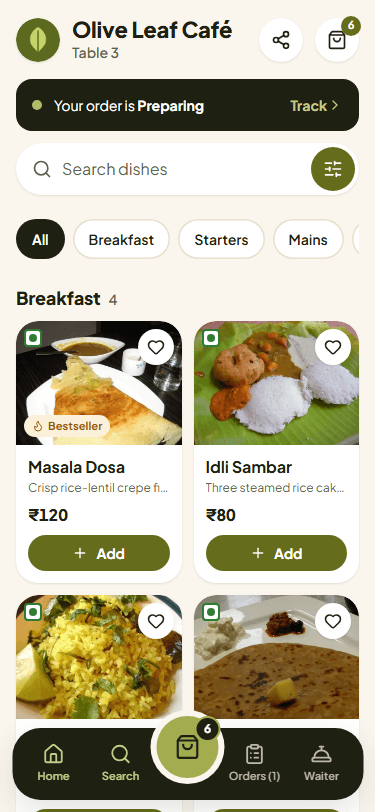
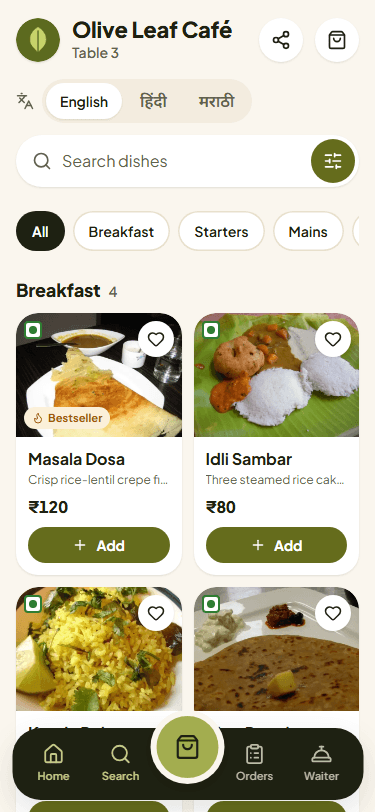
feat(client): English / Hindi / Marathi switch for dish names
- The customer menu shows an English / हिंदी / मराठी switch when dishes
  have translations; the choice is remembered, untranslated text falls
  back to English, search matches both, lang attributes are set
- Dish editor: optional Hindi and Marathi name and description
- Noto Sans Devanagari (fontsource, only downloaded for Devanagari text)
- e2e: exact label for the dish Name field now that translated name
  fields exist

diff --git a/client/src/features/owner/ItemEditor.jsx b/client/src/features/owner/ItemEditor.jsx
@@ -1,5 +1,5 @@
 import { useState } from 'react';
-import { Plus, X } from 'lucide-react';
+import { Plus, X, Languages } from 'lucide-react';
 import { Button, Chip, Modal, Switch, TextField, IconButton, useToast } from '../../components/ui';
 import { api, errorMessage } from '../../lib/api';
 import { ImagePicker } from '../../components/ImagePicker';
@@ -14,8 +14,32 @@ const NEW_CATEGORY = '__new__';
 
 const emptyItem = (category) => ({
   name: '', description: '', category: category || '', price: '', image: '', available: true, isVeg: true,
-  tags: [], spiceLevel: 0, calories: '', variants: [], addOns: []
+  tags: [], spiceLevel: 0, calories: '', variants: [], addOns: [], translations: emptyTranslations()
 });
+const TRANSLATION_LANGUAGES = [{ code: 'hi', label: 'Hindi', native: 'हिंदी' }, { code: 'mr', label: 'Marathi', native: 'मराठी' }];
+function emptyTranslations(existing = {}) {
+  return Object.fromEntries(TRANSLATION_LANGUAGES.map(({ code }) => [code, { name: existing[code]?.name || '', description: existing[code]?.description || '' }]));
+}
+
+// Optional Hindi / Marathi name and description; guests switch the menu language on their phone.
+function TranslationsEditor({ value, onChange, errors, englishName }) {
+  const [lang, setLang] = useState('hi');
+  const filled = TRANSLATION_LANGUAGES.filter(({ code }) => value[code].name || value[code].description).length;
+  const update = (field, text) => onChange({ ...value, [lang]: { ...value[lang], [field]: text } });
+  const current = TRANSLATION_LANGUAGES.find((l) => l.code === lang);
+  return (
+    <details className="translations-editor" open={filled > 0}>
+      <summary><Languages size={16} aria-hidden="true" /> Hindi and Marathi <span className="muted">{filled ? `(${filled} of 2 added)` : '(optional)'}</span></summary>
+      <div className="stack" style={{ marginTop: 'var(--space-3)' }}>
+        <div className="segmented" role="group" aria-label="Translation language">
+          {TRANSLATION_LANGUAGES.map((l) => <button key={l.code} type="button" aria-pressed={lang === l.code} onClick={() => setLang(l.code)}>{l.label} <span lang={l.code}>{l.native}</span></button>)}
+        </div>
+        <TextField label={`Name in ${current.label}`} lang={lang} value={value[lang].name} onChange={(e) => update('name', e.target.value)} error={errors[`translations.${lang}.name`]} maxLength={100} placeholder={englishName} />
+        <TextField label={`Description in ${current.label}`} lang={lang} multiline rows={2} value={value[lang].description} onChange={(e) => update('description', e.target.value)} error={errors[`translations.${lang}.description`]} maxLength={500} hint="Leave blank to show the English text" />
+      </div>
+    </details>
+  );
+}
 
 function OptionsEditor({ title, hint, rows, onChange, addLabel, placeholder }) {
   const update = (i, field, value) => onChange(rows.map((row, j) => (j === i ? { ...row, [field]: value } : row)));
@@ -44,7 +68,8 @@ export function ItemEditor({ item, categories, defaultCategory, onClose, onSaved
   const editing = Boolean(item?._id);
   const [form, setForm] = useState(() => (item ? {
     ...emptyItem(), ...item, calories: item.calories ?? '', price: item.price ?? '',
-    variants: (item.variants || []).map((v) => ({ ...v })), addOns: (item.addOns || []).map((a) => ({ ...a }))
+    variants: (item.variants || []).map((v) => ({ ...v })), addOns: (item.addOns || []).map((a) => ({ ...a })),
+    translations: emptyTranslations(item.translations)
   } : emptyItem(defaultCategory)));
   const [newCategory, setNewCategory] = useState('');
   const [errors, setErrors] = useState({});
@@ -69,7 +94,8 @@ export function ItemEditor({ item, categories, defaultCategory, onClose, onSaved
       spiceLevel: form.spiceLevel,
       calories: form.calories === '' ? null : Number(form.calories),
       variants,
-      addOns: cleanOptions(form.addOns)
+      addOns: cleanOptions(form.addOns),
+      translations: Object.fromEntries(Object.entries(form.translations).map(([code, t]) => [code, { name: t.name.trim(), description: t.description.trim() }]))
     };
     const next = {};
     if (!body.name) next.name = 'Give the dish a name';
@@ -103,6 +129,7 @@ export function ItemEditor({ item, categories, defaultCategory, onClose, onSaved
         <div className="stack">
           <TextField label="Name" value={form.name} onChange={(e) => set('name', e.target.value)} error={errors.name} maxLength={100} autoFocus />
           <TextField label="Description" multiline rows={3} value={form.description} onChange={(e) => set('description', e.target.value)} error={errors.description} maxLength={500} hint="One or two lines: ingredients, how it is made" />
+          <TranslationsEditor value={form.translations} onChange={(v) => set('translations', v)} errors={errors} englishName={form.name} />
           <div className="form-grid">
             <label className="field">
               <span className="field-label">Category</span>

diff --git a/e2e/language.spec.js b/e2e/language.spec.js
@@ -1,0 +1,60 @@
+const { test, expect } = require('@playwright/test');
+const { API, demo, ownerLogin } = require('./helpers');
+
+test('guests switch dish names to Hindi or Marathi; search still finds English names', async ({ page, request }) => {
+  const { restaurantId } = await demo(request);
+  await page.goto(`/menu/${restaurantId}/browse`);
+  const languages = page.getByRole('group', { name: 'Menu language' });
+  await expect(languages.getByRole('button', { name: 'English' })).toHaveAttribute('aria-pressed', 'true');
+  await expect(page.getByRole('button', { name: 'Masala Dosa', exact: true })).toBeVisible();
+
+  await languages.getByRole('button', { name: 'हिंदी' }).click();
+  const dosa = page.getByRole('button', { name: 'मसाला डोसा', exact: true });
+  await expect(dosa).toBeVisible();
+  await expect(dosa).toHaveAttribute('lang', 'hi');
+  await expect(page.getByText('मसालेदार आलू से भरा', { exact: false })).toBeVisible();
+
+  // English search terms still match while reading Hindi.
+  await page.getByLabel('Search dishes').fill('paneer tikka');
+  await expect(page.getByRole('button', { name: 'पनीर टिक्का', exact: true })).toBeVisible();
+  await page.getByLabel('Search dishes').fill('');
+
+  // The choice is remembered and the dish page follows it.
+  await page.reload();
+  await expect(page.getByRole('group', { name: 'Menu language' }).getByRole('button', { name: 'हिंदी' })).toHaveAttribute('aria-pressed', 'true');
+  await page.getByRole('button', { name: 'मसाला डोसा', exact: true }).click();
+  await expect(page.locator('.detail-name')).toHaveText('मसाला डोसा');
+  await page.goBack();
+
+  await page.getByRole('group', { name: 'Menu language' }).getByRole('button', { name: 'मराठी' }).click();
+  await expect(page.getByRole('button', { name: 'मसाला चहा', exact: true })).toBeVisible();
+  await page.getByRole('group', { name: 'Menu language' }).getByRole('button', { name: 'English' }).click();
+  await expect(page.getByRole('button', { name: 'Masala Chai', exact: true })).toBeVisible();
+});
+
+test('the owner adds a Marathi name in the dish editor', async ({ page, request }) => {
+  const { restaurantId } = await demo(request);
+  const owner = await ownerLogin(request);
+  await page.addInitScript(([token, userId]) => {
+    localStorage.setItem('token', token);
+    localStorage.setItem('userId', userId);
+    localStorage.setItem('qr.alerts', JSON.stringify({ sound: false, voice: false, browser: false }));
+  }, [owner.token, owner.userId]);
+  const name = `Lang Test ${Date.now()}`;
+  await page.goto('/dashboard/menu');
+  await page.getByRole('button', { name: 'Add dish' }).click();
+  const dialog = page.getByRole('dialog', { name: 'Add a dish' });
+  await dialog.getByLabel('Name', { exact: true }).fill(name);
+  await dialog.getByLabel('Price (₹)').fill('70');
+  await dialog.getByText('Hindi and Marathi').click();
+  await dialog.getByRole('button', { name: /^Marathi/ }).click();
+  await dialog.getByLabel('Name in Marathi').fill('साबुदाणा खिचडी');
+  await expect(dialog.getByLabel('Name in Marathi')).toHaveAttribute('lang', 'mr');
+  await dialog.getByRole('button', { name: 'Add dish' }).click();
+  await expect(dialog).toHaveCount(0);
+
+  const menu = await (await request.get(`${API}/api/menu/${restaurantId}`)).json();
+  const created = menu.find((i) => i.name === name);
+  expect(created.translations.mr).toEqual({ name: 'साबुदाणा खिचडी' });
+  expect(created.translations.hi?.name).toBeUndefined();
+});

diff --git a/client/src/features/customer/CustomerContext.jsx b/client/src/features/customer/CustomerContext.jsx
@@ -2,6 +2,7 @@ import { createContext, useCallback, useContext, useEffect, useMemo, useRef, use
 import { api } from '../../lib/api';
 import { connectSocket } from '../../lib/socket';
 import { local, session } from '../../lib/storage';
+import { availableLanguages, localizeItem } from '../../lib/menuLanguage';
 import { unitPricePaise, computeBill } from '../../lib/pricing';
 import { isActiveOrder } from '../../lib/orderStatus';
 
@@ -15,14 +16,16 @@ const keys = (rid) => ({
   orders: `qr.orders.${rid}`,
   favourites: `qr.fav.${rid}`,
   table: `qr.table.${rid}`,
-  customer: 'qr.customer'
+  customer: 'qr.customer',
+  language: 'qr.language' // the guest's menu language, kept across restaurants
 });
 
 // Everything a customer screen needs: restaurant, live menu, cart, tracked orders, favourites, table.
 export function CustomerProvider({ restaurantId, children }) {
   const k = keys(restaurantId);
   const [restaurant, setRestaurant] = useState(null);
-  const [menu, setMenu] = useState([]);
+  const [rawMenu, setMenu] = useState([]);
+  const [chosenLanguage, setChosenLanguage] = useState(() => local.get(k.language, 'en'));
   const [status, setStatus] = useState('loading'); // loading | ready | error
   const [error, setError] = useState(null);
   const [lines, setLines] = useState(() => local.get(k.cart, []));
@@ -107,6 +110,15 @@ export function CustomerProvider({ restaurantId, children }) {
     setTableState(n);
     session.set(k.table, n);
   }, [k.table]);
+
+  // ---------- Menu language ----------
+  const languages = useMemo(() => availableLanguages(rawMenu), [rawMenu]);
+  const language = languages.some((l) => l.code === chosenLanguage) ? chosenLanguage : 'en';
+  const setLanguage = useCallback((code) => {
+    setChosenLanguage(code);
+    local.set(k.language, code);
+  }, [k.language]);
+  const menu = useMemo(() => rawMenu.map((item) => localizeItem(item, language)), [rawMenu, language]);
 
   // ---------- Cart ----------
   const menuById = useMemo(() => new Map(menu.map((i) => [i._id, i])), [menu]);
@@ -224,6 +236,9 @@ export function CustomerProvider({ restaurantId, children }) {
     restaurant,
     menu,
     menuById,
+    language,
+    languages,
+    setLanguage,
     status,
     error,
     reload: load,

diff --git a/client/src/lib/menuLanguage.test.js b/client/src/lib/menuLanguage.test.js
@@ -1,0 +1,26 @@
+import { describe, expect, test } from 'vitest';
+import { availableLanguages, localizeItem, searchText } from './menuLanguage';
+
+const dosa = { _id: '1', name: 'Masala Dosa', description: 'Crisp crepe', category: 'Breakfast', translations: { hi: { name: 'मसाला डोसा' }, mr: { name: 'मसाला डोसा', description: 'कुरकुरीत डोसा' } } };
+const chai = { _id: '2', name: 'Masala Chai', description: 'Strong tea' };
+
+describe('localizeItem', () => {
+  test('English leaves the item as it is', () => {
+    expect(localizeItem(dosa, 'en')).toMatchObject({ name: 'Masala Dosa', nameLang: 'en' });
+  });
+  test('uses the translation and falls back per field', () => {
+    expect(localizeItem(dosa, 'hi')).toMatchObject({ name: 'मसाला डोसा', nameLang: 'hi', description: 'Crisp crepe', descriptionLang: 'en', nameEn: 'Masala Dosa' });
+    expect(localizeItem(dosa, 'mr')).toMatchObject({ description: 'कुरकुरीत डोसा', descriptionLang: 'mr' });
+    expect(localizeItem(chai, 'hi')).toMatchObject({ name: 'Masala Chai', nameLang: 'en' });
+  });
+});
+
+test('only offers languages the menu has', () => {
+  expect(availableLanguages([chai]).map((l) => l.code)).toEqual(['en']);
+  expect(availableLanguages([chai, dosa]).map((l) => l.code)).toEqual(['en', 'hi', 'mr']);
+});
+
+test('search matches the English name while reading Hindi', () => {
+  expect(searchText(localizeItem(dosa, 'hi'))).toContain('masala dosa');
+  expect(searchText(localizeItem(dosa, 'hi'))).toContain('मसाला डोसा');
+});

diff --git a/client/src/lib/menuLanguage.js b/client/src/lib/menuLanguage.js
@@ -1,0 +1,30 @@
+// Dish names and descriptions can be translated to Hindi and Marathi; everything else stays English.
+export const MENU_LANGUAGES = [
+  { code: 'en', label: 'English', short: 'EN' },
+  { code: 'hi', label: 'हिंदी', short: 'हि' },
+  { code: 'mr', label: 'मराठी', short: 'म' }
+];
+
+// The item as a guest reading `lang` sees it. Missing translations fall back to English, and nameLang /
+// descriptionLang say which language each text is in (for the lang attribute).
+export function localizeItem(item, lang) {
+  const t = lang === 'en' ? null : item.translations?.[lang];
+  if (!t?.name && !t?.description) return { ...item, nameLang: 'en', descriptionLang: 'en' };
+  return {
+    ...item,
+    name: t.name || item.name,
+    description: t.description || item.description,
+    nameEn: item.name,
+    descriptionEn: item.description,
+    nameLang: t.name ? lang : 'en',
+    descriptionLang: t.description ? lang : 'en'
+  };
+}
+
+// English plus every language at least one dish has a translated name in.
+export const availableLanguages = (menu) =>
+  MENU_LANGUAGES.filter((l) => l.code === 'en' || menu.some((item) => item.translations?.[l.code]?.name));
+
+// Text a search should match in any language.
+export const searchText = (item) => [item.name, item.description, item.nameEn, item.descriptionEn, item.category]
+  .filter(Boolean).join(' ').toLowerCase();

diff --git a/client/src/features/customer/MenuScreen.jsx b/client/src/features/customer/MenuScreen.jsx
@@ -5,6 +5,8 @@ import { useCustomer, lineKey } from './CustomerContext';
 import { FoodCard } from '../../components/FoodCard';
 import { BottomSheet, Button, Chip, IconButton, SearchBar, Skeleton, EmptyState, Switch, Badge, useToast } from '../../components/ui';
 import { STATUS_LABEL } from '../../lib/orderStatus';
+import { searchText } from '../../lib/menuLanguage';
+import { LanguageSwitch } from './LanguageSwitch';
 
 const SORTS = [
   { value: 'recommended', label: 'Recommended' },
@@ -61,7 +63,7 @@ export default function MenuScreen() {
       if (filters.vegOnly && item.isVeg === false) return false;
       if (filters.favouritesOnly && !favourites.has(item._id)) return false;
       if (filters.hideSoldOut && !item.available) return false;
-      if (q && !`${item.name} ${item.description || ''} ${item.category || ''}`.toLowerCase().includes(q)) return false;
+      if (q && !searchText(item).includes(q)) return false;
       return true;
     });
     if (filters.sort === 'price-asc') list = [...list].sort((a, b) => lowestPrice(a) - lowestPrice(b));
@@ -138,6 +140,8 @@ export default function MenuScreen() {
           <span className="order-banner-link">Track <ChevronRight size={16} aria-hidden="true" /></span>
         </button>
       )}
+
+      <LanguageSwitch />
 
       <SearchBar
         inputRef={searchRef}

diff --git a/client/src/components/FoodCard.jsx b/client/src/components/FoodCard.jsx
@@ -29,9 +29,9 @@ export function FoodCard({ item, quantity = 0, favourite = false, onOpen, onAdd,
       <div className="food-card-body" onClick={onOpen}>
         <h3 className="food-card-name clamp-2">
           {/* The card body also opens the item; stop here so one tap navigates once. */}
-          <button type="button" onClick={(e) => { e.stopPropagation(); onOpen(); }} style={{ textAlign: 'left' }}>{item.name}</button>
+          <button type="button" lang={item.nameLang} onClick={(e) => { e.stopPropagation(); onOpen(); }} style={{ textAlign: 'left' }}>{item.name}</button>
         </h3>
-        {item.description && <p className="food-card-desc truncate">{item.description}</p>}
+        {item.description && <p className="food-card-desc truncate" lang={item.descriptionLang}>{item.description}</p>}
         <p className="food-card-price price">
           {item.variants?.length ? <span className="muted text-xs" style={{ fontWeight: 600 }}>from </span> : null}
           {formatPrice(fromPrice)}

diff --git a/client/src/features/customer/ItemDetailScreen.jsx b/client/src/features/customer/ItemDetailScreen.jsx
@@ -88,7 +88,7 @@ export default function ItemDetailScreen() {
 
       <section className="detail-head">
         <div className="row-between" style={{ alignItems: 'flex-start' }}>
-          <h2 className="detail-name">{item.name}</h2>
+          <h2 className="detail-name" lang={item.nameLang}>{item.name}</h2>
           {item.calories ? (
             <span className="detail-cal"><Flame size={16} aria-hidden="true" /> {item.calories} Cal</span>
           ) : null}
@@ -99,7 +99,7 @@ export default function ItemDetailScreen() {
           <SpiceLevel level={item.spiceLevel} />
         </div>
         {item.description && (
-          <p className={`detail-desc ${longDescription && !expanded ? 'clamp-3' : ''}`}>
+          <p className={`detail-desc ${longDescription && !expanded ? 'clamp-3' : ''}`} lang={item.descriptionLang}>
             {item.description}
           </p>
         )}

diff --git a/client/src/features/owner/owner.css b/client/src/features/owner/owner.css
@@ -170,6 +170,12 @@
 .data-table td { padding: var(--space-3); border-bottom: 1px solid var(--cream-200); vertical-align: top; }
 .data-table .num { text-align: right; }
 
+/* ---------- Item translations ---------- */
+.translations-editor { border: 1px solid var(--cream-300); border-radius: var(--radius-md); padding: var(--space-3) var(--space-4); }
+.translations-editor summary { display: flex; align-items: center; gap: var(--space-2); cursor: pointer; font-weight: var(--weight-semibold); font-size: var(--text-sm); }
+.translations-editor summary .muted { font-weight: var(--weight-medium); }
+.translations-editor .segmented { align-self: flex-start; }
+
 /* ---------- Receipt ---------- */
 .receipt { font-family: ui-monospace, 'Cascadia Mono', Consolas, monospace; font-size: 13px; max-width: 320px; margin: 0 auto; color: #000; }
 .receipt h3 { text-align: center; font-size: 16px; }

diff --git a/client/src/features/customer/LanguageSwitch.jsx b/client/src/features/customer/LanguageSwitch.jsx
@@ -1,0 +1,20 @@
+import { Languages } from 'lucide-react';
+import { useCustomer } from './CustomerContext';
+
+// English / हिंदी / मराठी for dish names and descriptions; shown only when the menu has translations.
+export function LanguageSwitch() {
+  const { language, languages, setLanguage } = useCustomer();
+  if (languages.length < 2) return null;
+  return (
+    <div className="language-switch">
+      <Languages size={18} aria-hidden="true" />
+      <div className="segmented" role="group" aria-label="Menu language">
+        {languages.map((l) => (
+          <button key={l.code} type="button" lang={l.code} aria-pressed={language === l.code} onClick={() => setLanguage(l.code)}>
+            {l.label}
+          </button>
+        ))}
+      </div>
+    </div>
+  );
+}

diff --git a/e2e/customer.spec.js b/e2e/customer.spec.js
@@ -29,7 +29,7 @@ test('scan -> menu -> item with size and add-on -> cart -> order -> live status'
   await page.getByRole('link', { name: /Cart/ }).first().click();
   await expect(page.getByRole('heading', { name: 'Your cart' })).toBeVisible();
   await expect(page.getByText('₹498.75').first()).toBeVisible();
-  await page.getByLabel('Name').fill('E2E Customer');
+  await page.getByLabel('Name', { exact: true }).fill('E2E Customer');
 
   const orderResponse = page.waitForResponse((r) => r.url() === `${API}/api/orders` && r.request().method() === 'POST');
   await page.getByRole('button', { name: /Place order/ }).click();

diff --git a/e2e/staff.spec.js b/e2e/staff.spec.js
@@ -24,7 +24,7 @@ test('the owner adds a waiter, who logs in and only sees orders and settings', a
   await page.getByRole('button', { name: 'Add staff' }).click();
   const dialog = page.getByRole('dialog', { name: 'Add a staff member' });
   const email = `waiter${Date.now()}@staff.test`;
-  await dialog.getByLabel('Name').fill('Playwright Waiter');
+  await dialog.getByLabel('Name', { exact: true }).fill('Playwright Waiter');
   await dialog.getByLabel('Email').fill(email);
   await dialog.getByLabel('Role').selectOption('waiter');
   const password = await dialog.getByLabel('Temporary password').inputValue();
